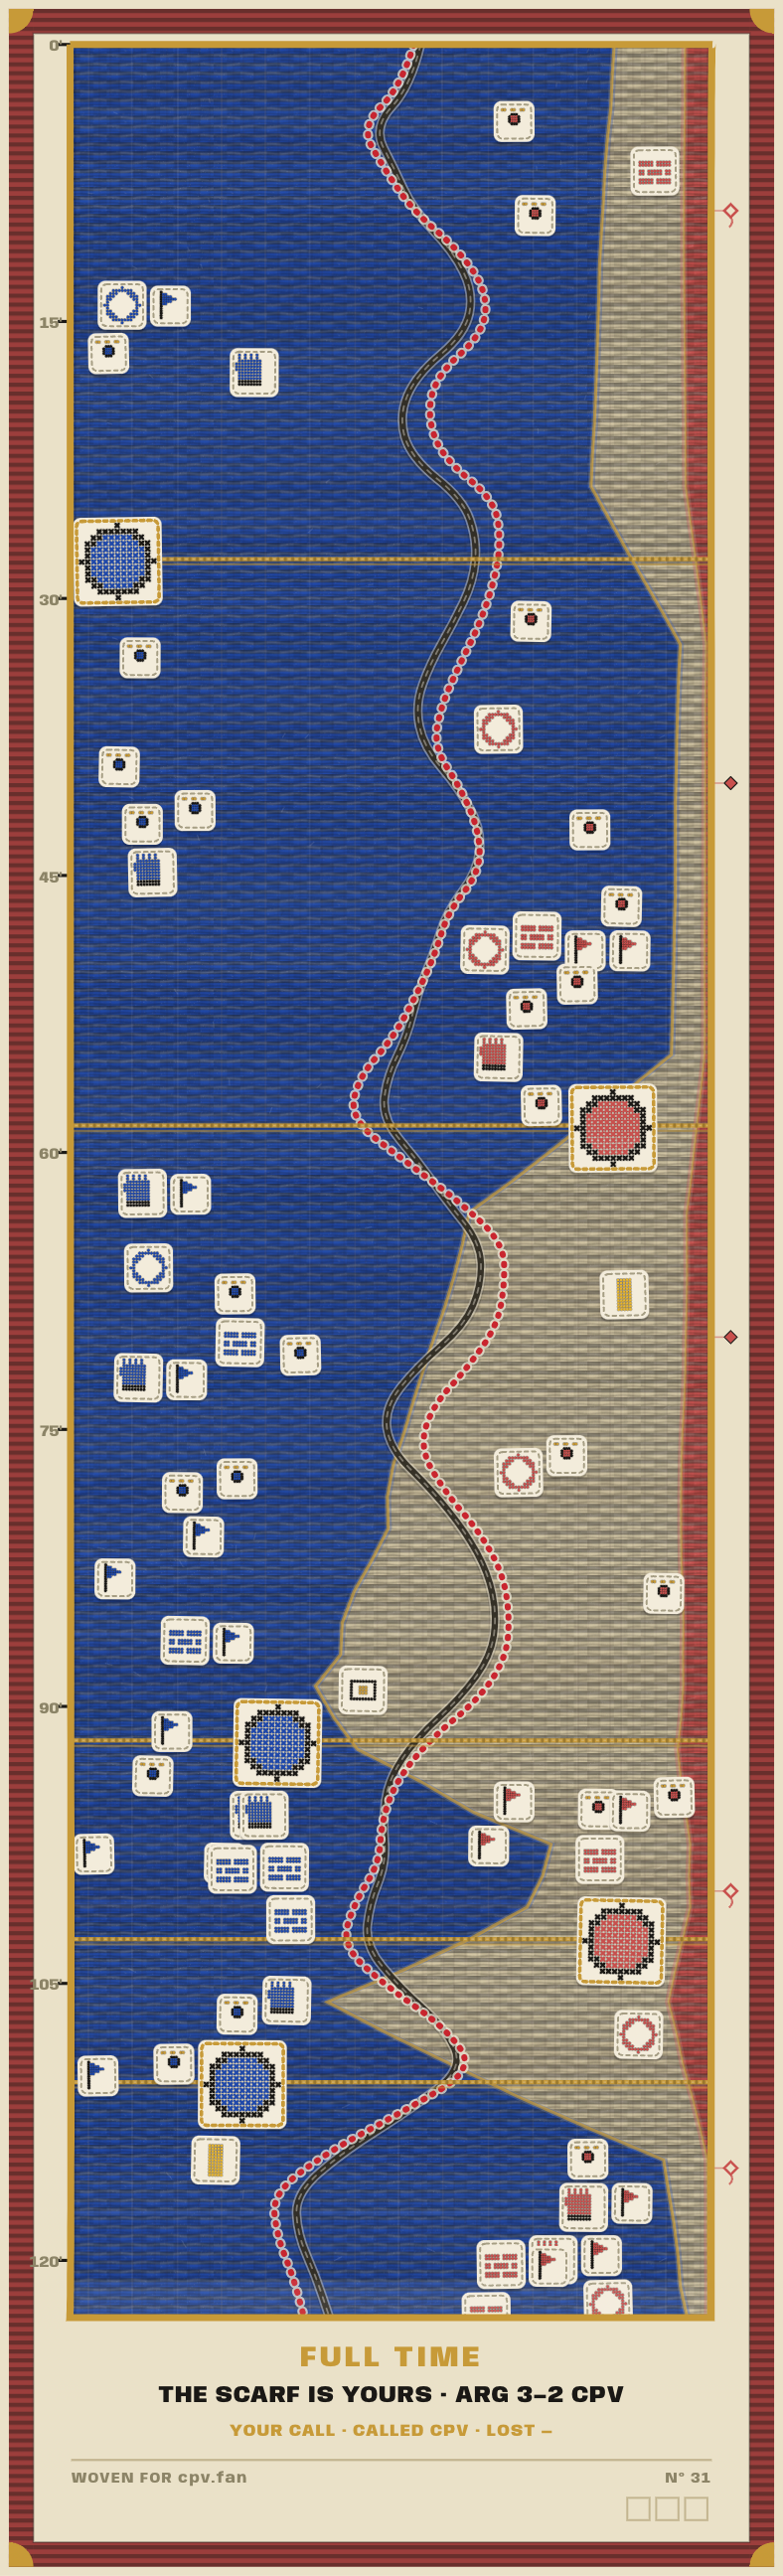
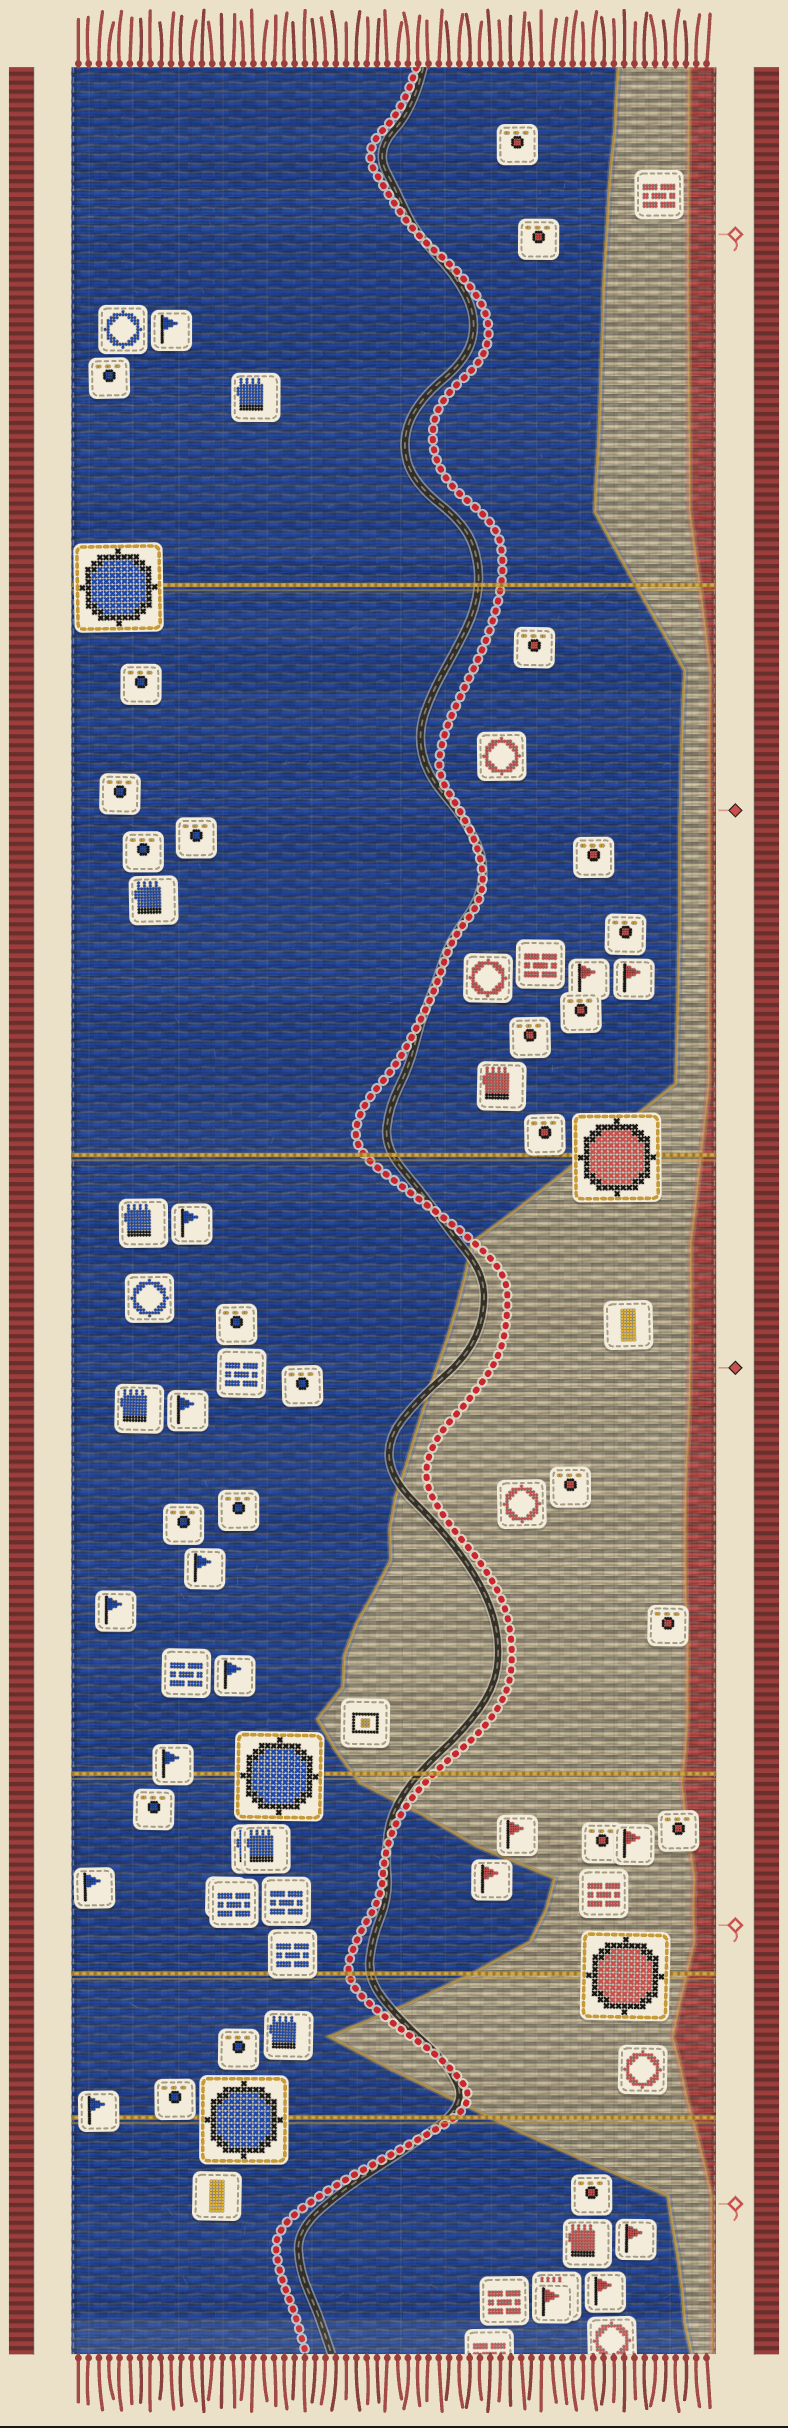
loom: make the scarf a SCARF — strip the writing, hang the fringe, let it breathe
Owner: 'a scarf should look like a scarf. it doesn't have writing on it. it has texture and
tassel. something that lives and breathes, plausibly haptic.' So:
- NO WRITING on the cloth: removed the FULL TIME/THE SCARF IS YOURS/score/YOUR CALL/WOVEN FOR/Nº
  seal plate, the goal-score numbers, and the sealed-keepsake minute axis. That provenance now
  lives in the NFT metadata + the cabinet UI around the scarf (KS/PENS still bound on the record,
  just not inked). Reclaimed the seal-plate foot (H() no longer reserves SEALPAD).
- TASSELS: the warp runs past the weave at both ends as hand-wavy, knotted fringe (team-dyed);
  tail-fringe only once sealed. The 4-sided picture frame → a scarf's true anatomy: deep-dyed
  team SELVAGE down the two long sides + fringed ends.
- LIVES & BREATHES: a slow breath+sway CSS animation on the live view (off in export/reduced-motion;
  the mint capture stays a clean still).
Calls (held/broke/void) + edge-to-edge odds unchanged. scarf-two-fans.png refreshed. Review pending.

diff --git a/apps/web/public/woven-loom.html b/apps/web/public/woven-loom.html
@@ -65,6 +65,11 @@ html.lexport .ksFrame{animation:none;stroke-dashoffset:0}  /* and the gold selva
 .ksFrame{stroke-dasharray:100;stroke-dashoffset:100;animation:ksThread 1.5s ease-out .15s both}
 @keyframes ksThread{to{stroke-dashoffset:0}}
 @keyframes ksPrint{from{opacity:0}to{opacity:1}}
+/* the hung scarf breathes — a slow, small breath + whisper of sway, so it reads as living cloth you
+   could reach out and feel, not a flat plate. Off in export (the mint still) and reduced-motion. */
+.loomv svg{transform-origin:50% 34%;animation:scarfBreathe 6.2s ease-in-out infinite;will-change:transform}
+@keyframes scarfBreathe{0%,100%{transform:scale(1) rotate(-0.18deg)}50%{transform:scale(1.006) rotate(0.18deg)}}
+html.lexport .loomv svg{animation:none;transform:none}
 /* the printed tag a tapped stitch answers with appears in one beat — paper snaps, it never fades */
 @media (prefers-reduced-motion:reduce){*,*::before,*::after{animation-duration:.001ms !important;animation-iteration-count:1 !important;transition-duration:.001ms !important;scroll-behavior:auto !important}}
 </style>
@@ -277,7 +282,7 @@ html.lexport .ksFrame{animation:none;stroke-dashoffset:0}  /* and the gold selva
     return null; }
 
   // ---------- layout ----------
-  var W=352, top=20, botpad=26, SEALPAD=104;   // wider: room for the fan-colour frame + the calls channel in the margin (the cloth's odds stay edge-to-edge)
+  var W=352, top=30, botpad=26, SEALPAD=104, FRINGE=26;   // wider margins for the fan frame + calls channel; top/bottom room for the tassel fringe (a scarf, not a plate)
   var loomEl=document.getElementById('loomv');
   var GOALOPT=Q.get('goalopt')||'b';   // goals read as goals (owner): weft + king, no score tab. a = +score tabs · c = king alone
   var MARKS=Q.get('marks')||'chip';    // chip = printed backing tags · cloth = stitched straight into the bands (L11 feasibility)
@@ -295,7 +300,7 @@ html.lexport .ksFrame{animation:none;stroke-dashoffset:0}  /* and the gold selva
   if(REDMO)BR={trav:0,hb:[0.9,0,1],sh:[0.04,0,1]};
   var possPts=[], dgrPts=[], placedMeta=[];   // last-render geometry — the cloth answers taps from these
   var TAG=null, TAGT=null;             // the one printed tag a tapped stitch pins up
-  function H(){ return top+(SEALED?(SEALPAD+(PENS&&PENS.winner?12:0)+(KS.call&&KS.call.label?12:0)):botpad)+ M.dur*8.3; }   // ~8.3 px/min → the tall cloth; the sealed keepsake adds a foot for its seal
+  function H(){ return top + M.dur*8.3 + FRINGE + 6; }   // ~8.3 px/min → the tall cloth; top has the head-fringe room, +FRINGE hangs the tail (no seal-plate foot — the scarf carries no writing)
   var gx0=32, grW=W-gx0-32;   // symmetric 32px each side: outer(4) + fan frame(11) + channel(17) — minutes left, calls right
   function ty(m){ return top + m*8.3; }
   function gx(p){ return gx0+grW*(p/100); }
@@ -561,26 +566,26 @@ html.lexport .ksFrame{animation:none;stroke-dashoffset:0}  /* and the gold selva
         svg+=glyph(P.t,P.x,P.y,gs(P.t),team);
         svg+='</g>';
       }});
-    // the score, printed on the gold weft at the cloth's centre seam — the row names what it became
-    if(GOALOPT==='a')goalRows.forEach(function(g){ var y=ty(g.m), tx=gx0+grW/2;
-      svg+='<rect x="'+(tx-14).toFixed(1)+'" y="'+(y-7.5).toFixed(1)+'" width="28" height="15" rx="2" fill="#F3ECDB" stroke="#C79A38" stroke-width="1.1"/>';
-      svg+='<text x="'+tx.toFixed(1)+'" y="'+(y+3.8).toFixed(1)+'" text-anchor="middle" font-family="Anybody" font-weight="900" font-size="10.5" fill="#1A1815">'+g.sc+'</text>'; });
+    // (the running score used to print here on the gold weft — removed: a scarf carries no writing.
+    //  The goal is still marked by its gold weft-line + medallion; the score lives in the metadata.)
     // the settle window breathes — a whisper of light on the newest rows only (never below the edge)
     svg+='<rect id="shimm" x="'+gx0+'" y="'+Math.max(top,ty(M.t)-16.6).toFixed(1)+'" width="'+grW+'" height="16.6" fill="#FFFFFF" opacity="0.05"/>';
     svg+='</g></g>';   // end reveal clip, end cloth silhouette
 
     // ---- THE FAN'S FRAME + CALLS — your team's colour borders the WHOLE scarf; your calls knot in the
     //      channel just inside it. ADDITIVE: it lives in the margin, never over the woven odds. ----
-    if(ROOT){ var rk=(ROOT==='home')?HOME:AWAY, fo=4, FW=11, fi=fo+FW, yb=HH-fo, frim=shade(rk,0.78), flit=shade(rk,1.14);   // deep dye — the frame reads as a deliberate border even when its team shares the cloth's colour (home fan)
-      function frect(x,y,w,hh){ svg+='<rect x="'+x.toFixed(1)+'" y="'+y.toFixed(1)+'" width="'+w.toFixed(1)+'" height="'+hh.toFixed(1)+'" fill="'+frim+'"/><rect x="'+x.toFixed(1)+'" y="'+y.toFixed(1)+'" width="'+w.toFixed(1)+'" height="'+hh.toFixed(1)+'" fill="url(#tone)" color="'+flit+'" opacity="0.4"/>'; }
-      frect(fo,fo,W-2*fo,FW); frect(fo,HH-fi,W-2*fo,FW); frect(fo,fo,FW,HH-2*fo); frect(W-fi,fo,FW,HH-2*fo);
-      svg+='<rect x="'+fi+'" y="'+fi+'" width="'+(W-2*fi)+'" height="'+(HH-2*fi).toFixed(1)+'" fill="none" stroke="#1A1815" stroke-width="0.8" opacity="0.38"/>';   // inner keyline
-      var cr=FW;   // Bauhaus corners — a gold quarter-disc nested in each corner of the frame
-      svg+='<path d="M '+fo+' '+fo+' L '+(fo+cr)+' '+fo+' A '+cr+' '+cr+' 0 0 1 '+fo+' '+(fo+cr)+' Z" fill="#C79A38"/>';
-      svg+='<path d="M '+(W-fo)+' '+fo+' L '+(W-fo)+' '+(fo+cr)+' A '+cr+' '+cr+' 0 0 1 '+(W-fo-cr)+' '+fo+' Z" fill="#C79A38"/>';
-      svg+='<path d="M '+fo+' '+yb+' L '+fo+' '+(yb-cr)+' A '+cr+' '+cr+' 0 0 1 '+(fo+cr)+' '+yb+' Z" fill="#C79A38"/>';
-      svg+='<path d="M '+(W-fo)+' '+yb+' L '+(W-fo-cr)+' '+yb+' A '+cr+' '+cr+' 0 0 1 '+(W-fo)+' '+(yb-cr)+' Z" fill="#C79A38"/>';
-      // your calls — knotted in the paper channel between the cloth edge and the frame (never over the odds)
+    if(ROOT){ var rk=(ROOT==='home')?HOME:AWAY, fo=4, FW=11, fi=fo+FW, frim=shade(rk,0.78), flit=shade(rk,1.14), cy0=top, cy1=top+ch;
+      // THE SELVAGE — a deep-dyed woven border down BOTH long sides: the fan's colour, the length of the cloth
+      function selv(x){ svg+='<rect x="'+x.toFixed(1)+'" y="'+cy0+'" width="'+FW+'" height="'+ch.toFixed(1)+'" fill="'+frim+'"/><rect x="'+x.toFixed(1)+'" y="'+cy0+'" width="'+FW+'" height="'+ch.toFixed(1)+'" fill="url(#tone)" color="'+flit+'" opacity="0.4"/>'; }
+      selv(fo); selv(W-fi);
+      svg+='<line x1="'+fi+'" y1="'+cy0+'" x2="'+fi+'" y2="'+cy1.toFixed(1)+'" stroke="#1A1815" stroke-width="0.7" opacity="0.35"/><line x1="'+(W-fi)+'" y1="'+cy0+'" x2="'+(W-fi)+'" y2="'+cy1.toFixed(1)+'" stroke="#1A1815" stroke-width="0.7" opacity="0.35"/>';
+      // THE FRINGE — the warp runs past the weave at both ends: the tassel. Team-dyed, hand-wavy, knotted at the base.
+      // (tail-fringe only once the cloth is sealed — a live cloth is still weaving toward its end.)
+      function fringe(y0,dir){ for(var fx=gx0+3; fx<gx0+grW-1; fx+=4.6){ var j=warpJit(Math.round(fx*2.3)), ln=FRINGE*(0.76+0.22*(0.5+0.5*Math.sin(fx*1.9)));
+          svg+='<path d="M '+fx.toFixed(1)+' '+y0.toFixed(1)+' Q '+(fx+j[0]*1.4).toFixed(1)+' '+(y0+dir*ln*0.55).toFixed(1)+' '+(fx+j[1]*2.4).toFixed(1)+' '+(y0+dir*ln).toFixed(1)+'" fill="none" stroke="'+((Math.round(fx)%3)?frim:shade(rk,0.64))+'" stroke-width="1.5" stroke-linecap="round" opacity="0.92"/>';
+          svg+='<circle cx="'+fx.toFixed(1)+'" cy="'+(y0+dir*1.6).toFixed(1)+'" r="1.5" fill="'+frim+'"/>'; } }
+      fringe(cy0,-1); if(SEALED)fringe(cy1,1);
+      // your calls — knotted in the paper channel between the cloth edge and the right selvage (never over the odds)
       var cedge=gx0+grW, knx=cedge+(W-fi-cedge)/2, rev=ty(M.t)*(typeof unroll==='number'?unroll:1);
       CALLS.forEach(function(c){ if(c.m==null)return; var y=ty(c.m); if(y<top+2||y>rev+1)return; var d=2.9, DM='M '+knx.toFixed(1)+' '+(y-d).toFixed(1)+' L '+(knx+d).toFixed(1)+' '+y.toFixed(1)+' L '+knx.toFixed(1)+' '+(y+d).toFixed(1)+' L '+(knx-d).toFixed(1)+' '+y.toFixed(1)+' Z';
         svg+='<line x1="'+(cedge+1).toFixed(1)+'" y1="'+y.toFixed(1)+'" x2="'+(knx-d-0.4).toFixed(1)+'" y2="'+y.toFixed(1)+'" stroke="'+rk+'" stroke-width="0.7" opacity="0.5"/>';
@@ -590,8 +595,8 @@ html.lexport .ksFrame{animation:none;stroke-dashoffset:0}  /* and the gold selva
       });
     }
 
-    // minute rails (always visible, past + future)
-    for(var mn=0;mn<=DUR+1;mn+=15){var y=ty(mn);
+    // minute rails — a live weaving aid only; the sealed scarf carries no clock (that's prose; owner)
+    if(!SEALED)for(var mn=0;mn<=DUR+1;mn+=15){var y=ty(mn);
       svg+='<line x1="'+(gx0-6)+'" y1="'+y+'" x2="'+gx0+'" y2="'+y+'" stroke="#1A1815" stroke-width="1.4"/>';
       svg+='<text x="'+(gx0-4)+'" y="'+(y+3)+'" text-anchor="end" font-family="Anybody" font-weight="700" font-size="7" fill="#8C8467">'+mn+"'</text>";}
     // the live shuttle / weaving edge — only on the un-sealed cloth; the frozen keepsake has no shuttle.
@@ -599,34 +604,10 @@ html.lexport .ksFrame{animation:none;stroke-dashoffset:0}  /* and the gold selva
     // to the market's voice and the rare mark, never to the machine (gold audit).
     if(!SEALED)
       svg+='<g id="shut"><line id="shutL" x1="'+gx0+'" y1="'+ty(M.t)+'" x2="'+(gx0+grW)+'" y2="'+ty(M.t)+'" stroke="#1A1815" stroke-width="2" opacity=".9"/><rect id="shutB" x="'+(gx0+4)+'" y="'+(ty(M.t)-3.5)+'" width="13" height="7" rx="3.2" fill="#F3ECDB" stroke="#1A1815" stroke-width="1.3"/></g>';
-    // ---- THE PRESSING: at full time the gold thread runs the selvage and the cloth prints its seal ----
-    if(SEALED){
-      var FTY=ty(M.dur);
-      // the gold border is WOVEN INTO the selvage — it strokes the cloth's own wobbled edge,
-      // flush, no gutter (the frame is thread, not a picture frame)
-      svg+='<path class="ksFrame" pathLength="100" d="'+shapeP+'" fill="none" stroke="#C79A38" stroke-width="3.2"/>';
-      var sy=FTY+22;
-      svg+='<g class="ksSeal">';
-      svg+='<text x="'+(W/2)+'" y="'+sy.toFixed(1)+'" text-anchor="middle" font-family="Anybody" font-weight="900" font-size="13" letter-spacing="1.4" fill="#C79A38">FULL TIME</text>';
-      svg+='<text x="'+(W/2)+'" y="'+(sy+16).toFixed(1)+'" text-anchor="middle" font-family="Anybody" font-weight="800" font-size="10.5" letter-spacing="0.4" fill="#1A1815">THE SCARF IS YOURS · '+M.hTri+' '+M.score[0]+'–'+M.score[1]+' '+M.aTri+'</text>';
-      var cy=sy+31;
-      // a shootout's verdict belongs on the seal — the draw stands; the spot decided it
-      if(PENS&&PENS.winner){
-        svg+='<text x="'+(W/2)+'" y="'+cy.toFixed(1)+'" text-anchor="middle" font-family="Anybody" font-weight="800" font-size="7.5" letter-spacing="0.5" fill="#C79A38">'+(PENS.winner==='home'?M.hTri:M.aTri)+' WIN '+PENS.h+'–'+PENS.a+' FROM THE SPOT</text>';
-        cy+=12;
-      }
-      // the fan's own proven call, woven into the seal (from the relic's tx-signed receipts) — honest-empty until bound
-      if(KS.call && KS.call.label){
-        svg+='<text x="'+(W/2)+'" y="'+cy.toFixed(1)+'" text-anchor="middle" font-family="Anybody" font-weight="800" font-size="7.5" letter-spacing="0.5" fill="#C79A38">YOUR CALL · '+esc(KS.call.label)+(KS.call.hit!=null?(KS.call.hit?' ✓':' —'):'')+'</text>';
-        cy+=12;
-      }
-      var hy=cy+9;
-      svg+='<line x1="'+gx0+'" y1="'+(hy-10).toFixed(1)+'" x2="'+(gx0+grW)+'" y2="'+(hy-10).toFixed(1)+'" stroke="#C3B590" stroke-width="1"/>';
-      svg+='<text x="'+gx0+'" y="'+hy.toFixed(1)+'" font-family="Anybody" font-weight="700" font-size="6.6" letter-spacing="0.6" fill="#8C8467">'+(KS.owner?('WOVEN FOR '+esc(KS.owner)):(M.src==='live'?'WOVEN LIVE FROM THE WIRE':'WOVEN FROM THE WIRE · REPLAY'))+'</text>';
-      svg+='<text x="'+(gx0+grW).toFixed(1)+'" y="'+hy.toFixed(1)+'" text-anchor="end" font-family="Anybody" font-weight="700" font-size="6.6" letter-spacing="0.6" fill="#8C8467">Nº '+(KS.editionNo!=null?esc(String(KS.editionNo)):'—')+'</text>';
-      for(var hi=0;hi<3;hi++)svg+='<rect x="'+(gx0+grW-38+hi*13)+'" y="'+(hy+7)+'" width="10" height="10" fill="none" stroke="#C3B590" stroke-width="0.9"/>';
-      svg+='</g>';
-    }
+    // ---- THE PRESSING: at full time the weave simply stops and the tail-fringe hangs — a scarf, not
+    //      a certificate. No FULL TIME plate, no printed score/owner/edition/call: all of that is the
+    //      keepsake's METADATA + the cabinet UI around it (KS/PENS still bound on the record, just not
+    //      inked on the cloth). The fan's calls stay — they're woven marks, not writing. ----
     svg+='<g id="taglayer">'+(TAG?tagSVG():'')+'</g>';
     svg+='</svg>';
     loomEl.querySelector('svg')&&loomEl.querySelector('svg').remove();